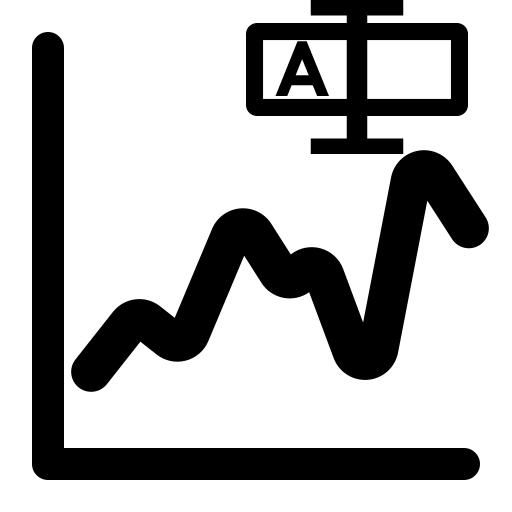
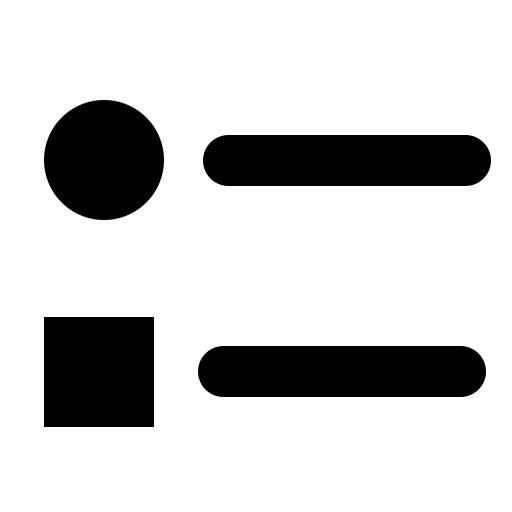
bugfixes

diff --git a/main.py b/main.py
@@ -131,9 +131,12 @@ class MRSPlotter(QMainWindow):
         self.grid_rows = 2
         self.grid_cols = 2
         self.ui.select_mean.stateChanged.connect(self.update_preview)
+        self.ui.select_mean.stateChanged.connect(self.update_vertical_lines_enabled)
         self.ui.select_mean_std.stateChanged.connect(self.update_preview)
         self.ui.each_selected.stateChanged.connect(self.update_preview)
-        self.ui.add_lines_check.stateChanged.connect(self.update_preview)
+        self.ui.each_selected.stateChanged.connect(self.update_vertical_lines_enabled)
+        self.ui.add_lines_check.stateChanged.connect(self.update_preview_if_ppm_entered)
+        self.update_vertical_lines_enabled()
         self.ui.add_lines_is_brainH.stateChanged.connect(self.update_preview)
         self.ui.ppm_one_input.editingFinished.connect(self.update_preview)
         self.ui.ppm_two_input.editingFinished.connect(self.update_preview)
@@ -201,7 +204,7 @@ class MRSPlotter(QMainWindow):
     
     def update_legend_status(self):
             if hasattr(self.toolbar, 'legend_action'):
-                self.legend_visible = self.toolbar.legend_action.isChecked()
+                self.legend_visible = not self.toolbar.legend_action.isChecked()
                 self.update_preview()
 
     def reset_figure(self):
@@ -953,7 +956,7 @@ class MRSPlotter(QMainWindow):
             selected_files, ppm_range, statusbar=self.ui.statusbar
         )
         self.filetype = determine_filetype(selected_files)
-        self.number_of_files = len(self.selected_files)
+        self.number_of_files = len(selected_files)
         self.update_plot_type_options() 
         
 
@@ -976,8 +979,9 @@ class MRSPlotter(QMainWindow):
             # Add labels to the list with random distinctive colors
             for i, label in enumerate(tissueTypes):
                 item = QListWidgetItem(str(label))
-                # Assign a random distinctive color to each label
-                self.color_map[str(label)] = self.get_random_color(i)
+                # Assign a random distinctive color to each label (preserve existing)
+                if str(label) not in self.color_map:
+                    self.color_map[str(label)] = self.get_random_color(i)
                 item.setData(Qt.ItemDataRole.UserRole, self.color_map[str(label)])
                 item.setTextAlignment(Qt.AlignmentFlag.AlignCenter)
                 self.ui.labels_found.addItem(item)
@@ -1030,6 +1034,20 @@ class MRSPlotter(QMainWindow):
         else:
             self.ui.plot_type.setCurrentIndex(0)
 
+    def update_vertical_lines_enabled(self):
+        """Enable the vertical lines checkbox only when mean or each spectra is selected."""
+        enabled = self.ui.select_mean.isChecked() or self.ui.each_selected.isChecked()
+        self.ui.add_lines_check.setEnabled(enabled)
+        if not enabled:
+            self.ui.add_lines_check.setChecked(False)
+
+    def update_preview_if_ppm_entered(self):
+        """Only update preview when at least one ppm input has a value."""
+        for input_field in [self.ui.ppm_one_input, self.ui.ppm_two_input, self.ui.ppm_three_input]:
+            if input_field.text().strip():
+                self.update_preview()
+                return
+
     def update_preview(self):
         """Update the plot preview based on current settings with improved error handling"""
         # Don't update the preview if no files have been processed yet
@@ -1049,7 +1067,7 @@ class MRSPlotter(QMainWindow):
         
 
         if not (include_mean or plot_individual_plots):
-            update_status(self.ui.statusbar,"Please select mean or each spectra to display")
+            update_status(self.ui.statusbar,"Please select mean or each spectra to display", timeout=5000)
             self.clear_plot()
             self.figure.clear()
             ax = self.figure.add_subplot(111)

diff --git a/navigation_toolbar.py b/navigation_toolbar.py
@@ -77,7 +77,7 @@ class CustomNavigationToolbar(NavigationToolbar):
         'Subplot': 'view-grid',
         'Save': 'document-save'
         }
-   
+
         # Iterate through actions and replace icons
         for action in self.actions():
             text = action.text()
@@ -108,6 +108,13 @@ class CustomNavigationToolbar(NavigationToolbar):
             else:
                 self.legend_action.setIcon(QIcon.fromTheme("view-list-details"))
 
+        # Set Customize (edit axis) icon
+        for action in self.actions():
+            if action.text() == "Customize":
+                axes_path = path.join(path.dirname(path.abspath(__file__)), "resources", "plot_axes_white.png")
+                if path.exists(axes_path):
+                    action.setIcon(QIcon(axes_path))
+                break
 
     def setup_light_mode_icons(self):
         icon_mapping = {
@@ -119,7 +126,7 @@ class CustomNavigationToolbar(NavigationToolbar):
             'Subplot': 'view-grid',
             'Save': 'document-save'
         }
-       
+
         # Iterate through actions and replace icons
         for action in self.actions():
             text = action.text()
@@ -148,7 +155,14 @@ class CustomNavigationToolbar(NavigationToolbar):
             else:
                 self.legend_action.setIcon(QIcon.fromTheme("view-list-text"))
 
-        
+        # Set Customize (edit axis) icon
+        for action in self.actions():
+            if action.text() == "Customize":
+                axes_path = path.join(path.dirname(path.abspath(__file__)), "resources", "plot_axes.png")
+                if path.exists(axes_path):
+                    action.setIcon(QIcon(axes_path))
+                break
+
     # Add a method to update icons when theme changes
     def update_theme(self):
         is_dark_mode = self.palette().window().color().lightness() < 128

diff --git a/create_grid_plot.py b/create_grid_plot.py
@@ -173,9 +173,11 @@ def create_grid(output_directory, xaxis, dataTable, include_mean, include_sdev,
                 
                 # Add vertical reference lines if requested
                 if add_vertical_lines and ppm_list_vertical:
+                    ppm_str = ", ".join(str(p) for p in ppm_list_vertical)
+                    update_status(statusbar, f"Adding vertical lines at {ppm_str} ppm")
                     for item in ppm_list_vertical:
                         add_vertical_line_with_text(ax, item, float(global_maxIntensity), str(item))
-                
+
                 # Add title with position coordinates
                 ax.set_title(f'X:{x_pos}, Y:{y_pos} (n={len(cases_selected)})')
                 
@@ -244,6 +246,8 @@ def create_grid(output_directory, xaxis, dataTable, include_mean, include_sdev,
                                                 label='±σ')
                         
                         if add_vertical_lines:
+                            ppm_str = ", ".join(str(p) for p in ppm_list_vertical)
+                            update_status(statusbar, f"Adding vertical lines at {ppm_str} ppm")
                             for item in ppm_list_vertical:
                                 add_vertical_line_with_text(ax_single, item, float(global_maxIntensity), str(item))
                         

diff --git a/create_multivoxel_grid.py b/create_multivoxel_grid.py
@@ -34,7 +34,7 @@ def get_row_data(dataTable, x_pos, y_pos, case_id, id_mode='xml'):
     # Get PPM columns (intensity data), sorted numerically
     ppm_columns = sorted(
         [col for col in filtered_data.columns if col.startswith('PPM_')],
-        key=lambda c: float(c.split('_')[1])
+        key=lambda c: float(c.split('_')[1]), reverse=True
     )
     if not ppm_columns:
         return None, None
@@ -170,7 +170,7 @@ def create_multivoxel_plot(output_directory, xaxis, dataTable, include_mean, inc
         # Grab one valid spectrum to use as invisible placeholder in empty cells
         ppm_columns = sorted(
             [col for col in dataTable.columns if col.startswith('PPM_')],
-            key=lambda c: float(c.split('_')[1])
+            key=lambda c: float(c.split('_')[1]), reverse=True
         )
     
         # Create grid layout
@@ -225,6 +225,8 @@ def create_multivoxel_plot(output_directory, xaxis, dataTable, include_mean, inc
                     fileending = ''
                      # Add vertical reference lines if requested
                     if add_vertical_lines:
+                        ppm_str = ", ".join(str(p) for p in ppm_list_vertical)
+                        update_status(statusbar, f"Adding vertical lines at {ppm_str} ppm")
                         for i, item in enumerate(ppm_list_vertical):
                             add_vertical_line_with_text(ax, item, float(global_maxIntensity), str(item))
                             fileending = 'vertical_'

diff --git a/create_plot_subplots.py b/create_plot_subplots.py
@@ -153,7 +153,7 @@ def create_subplot(output_directory, xaxis, dataTable, include_mean, include_sde
         # Get PPM columns sorted numerically
         ppm_cols = sorted(
             [col for col in filtered.columns if col.startswith('PPM_')],
-            key=lambda c: float(c.split('_')[1])
+            key=lambda c: float(c.split('_')[1]), reverse=True
         )
 
         # Prepare data for mean and standard deviation
@@ -199,6 +199,8 @@ def create_subplot(output_directory, xaxis, dataTable, include_mean, include_sde
         
         # Add vertical reference lines if requested
         if add_vertical_lines:
+            ppm_str = ", ".join(str(p) for p in ppm_list_vertical)
+            update_status(statusbar, f"Adding vertical lines at {ppm_str} ppm")
             for i, item in enumerate(ppm_list_vertical):
                 add_vertical_line_with_text(ax, item, float(global_maxIntensity), str(item))
 
@@ -273,6 +275,8 @@ def create_subplot(output_directory, xaxis, dataTable, include_mean, include_sde
                         
 
                         
+                ppm_str = ", ".join(str(p) for p in ppm_list_vertical)
+                update_status(statusbar, f"Adding vertical lines at {ppm_str} ppm")
                 for i, item in enumerate(ppm_list_vertical):
                     add_vertical_line_with_text(ax_single, item, float(global_maxIntensity), str(item))
                 

diff --git a/status.py b/status.py
@@ -1,9 +1,9 @@
-from PyQt6.QtCore import QCoreApplication
+from PyQt6.QtCore import QCoreApplication, QTimer
 
 
-def update_status(statusbar, message):
+def update_status(statusbar, message, timeout=10000):
         if statusbar:
             statusbar.setText(message)
-            # Force the application to process events to update the UI
             QCoreApplication.processEvents()
+            QTimer.singleShot(timeout, lambda: statusbar.setText(""))
 

diff --git a/create_individual_plots.py b/create_individual_plots.py
@@ -74,7 +74,7 @@ def create_individual_plots(output_directory, xaxis, dataTable, include_mean, in
         # Get PPM columns
         ppm_cols = sorted(
             [col for col in filtered.columns if col.startswith('PPM_')],
-            key=lambda c: float(c.split('_')[1])
+            key=lambda c: float(c.split('_')[1]), reverse=True
         )
 
         # Determine file ending based on options
@@ -114,6 +114,8 @@ def create_individual_plots(output_directory, xaxis, dataTable, include_mean, in
 
             # Add vertical reference lines if requested
             if add_vertical_lines:
+                ppm_str = ", ".join(str(p) for p in ppm_list_vertical)
+                update_status(statusbar, f"Adding vertical lines at {ppm_str} ppm")
                 for i, item in enumerate(ppm_list_vertical):
                     add_vertical_line_with_text(ax, item, float(global_maxIntensity), str(item))
 

diff --git a/create_superimposed.py b/create_superimposed.py
@@ -139,7 +139,7 @@ def create_superimposed(output_directory, xaxis, dataTable, include_mean, includ
         # Get PPM columns sorted numerically
         ppm_cols = sorted(
             [col for col in filtered.columns if col.startswith('PPM_')],
-            key=lambda c: float(c.split('_')[1])
+            key=lambda c: float(c.split('_')[1]), reverse=True
         )
 
         # Prepare data for mean and standard deviation
@@ -191,6 +191,8 @@ def create_superimposed(output_directory, xaxis, dataTable, include_mean, includ
     
     # Add vertical reference lines if requested
     if add_vertical_lines:
+        ppm_str = ", ".join(str(p) for p in ppm_list_vertical)
+        update_status(statusbar, f"Adding vertical lines at {ppm_str} ppm")
         for i, elem in enumerate(ppm_list_vertical):
             add_vertical_line_with_text(ax, elem, float(global_maxIntensity), str(elem))
     

diff --git a/data_editor_dialog.py b/data_editor_dialog.py
@@ -364,7 +364,7 @@ class DataEditorDialog(QDialog):
                 
                 # Get spectral data columns
                 ppm_cols = sorted([col for col in current_data.columns if col.startswith('PPM_')],
-                                key=lambda x: float(x.split('_')[1]))
+                                key=lambda x: float(x.split('_')[1]), reverse=True)
                 
                 # Get PPM parameters from xaxis
                 first_ppm = min(self.xaxis) if self.xaxis is not None and len(self.xaxis) > 0 else 0

diff --git a/plot_settings.py b/plot_settings.py
@@ -6,7 +6,7 @@ from math import ceil, sqrt
 def add_vertical_line_with_text(ax_or_plt, x_position, y_position, text):
     """
     Adds a vertical line and text annotation at a specified position.
-    
+
     Parameters:
     ax_or_plt: Either a matplotlib axes object or plt
     x_position (float): x-coordinate for the vertical line

diff --git a/visualize.py b/visualize.py
@@ -559,7 +559,7 @@ class Ui_svPlotter(object):
         self.main_layout.addWidget(self.plot_widget, 1)
 
         # Status bar label (added to plot_layout after canvas in main.py)
-        self.statusbar = QtWidgets.QLabel("Ready — Load files to get started")
+        self.statusbar = QtWidgets.QLabel("Ready - Load files to get started")
         self.statusbar.setObjectName("statusbar")
         self.statusbar.setStyleSheet("""
             QLabel {